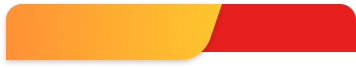
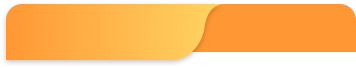
update

diff --git a/src/pages/tabbar/index.vue b/src/pages/tabbar/index.vue
@@ -42,26 +42,26 @@
 				<view class="lgImg flex col_center" @click="goArtcle(3)">
 					<view class="between">
 						<view>
-							<view class="name">Company</view>
-							<view class="label mt10">Best Global Marketing Agency</view>
+							<view class="name">{{t('x.i_d1')}}</view>
+							<view class="label mt10">{{t('x.i_d2')}}</view>
 						</view>
 
 						<view>
 							<image src="/static/themeNum1/icon/i_r.png" mode="widthFix"
-								style="width: 60rpx;height: 40rpx;"></image>
+								style="width: 60rpx;"></image>
 						</view>
 					</view>
 				</view>
 				<view class="lgImg flex col_center" @click="changePage(1,'../mine/notice')">
 					<view class="between">
 						<view>
-							<view class="name">Public</view>
-							<view class="label mt10">XXXXX</view>
+							<view class="name">{{t('x.i_d3')}}</view>
+							<view class="label mt10">{{t('x.i_d2')}}</view>
 						</view>
 
 						<view>
 							<image src="/static/themeNum1/icon/i_r.png" mode="widthFix"
-								style="width: 60rpx;height: 40rpx;"></image>
+								style="width: 60rpx;"></image>
 						</view>
 					</view>
 				</view>
@@ -109,7 +109,7 @@
 								<view class="mt10 f28 text_bold">{{ item.bonus + ' ' + currency }}</view>
 							</view>
 							<view class="descItem text_center">
-								<view> {{ $t('x.a5') + ' ' + item.dayProfit + currency }}
+								<view> {{ $t('x.a5') + ' ' + item.dayProfit + currency }}.
 									{{ $t('x.a6') + ' ' + item.show_day + ' ' + $t('x.a7') }}
 								</view>
 							</view>
@@ -546,7 +546,7 @@
 		border-bottom: 1px dashed #ccc;
 
 		.value {
-			color: #E7201F;
+			color: #FF7C35;
 			font-size: 32rpx;
 			font-weight: bold;
 		}

diff --git a/src/components/loading/loading.vue b/src/components/loading/loading.vue
@@ -201,7 +201,7 @@
 
 	@keyframes fadeG {
 		0% {
-			background-color: #E6201F;
+			background-color: #FFE030;
 		}
 
 		100% {
@@ -211,7 +211,7 @@
 
 	@-o-keyframes fadeG {
 		0% {
-			background-color: #E6201F;
+			background-color: #FFE030;
 		}
 
 		100% {
@@ -221,7 +221,7 @@
 
 	@-ms-keyframes fadeG {
 		0% {
-			background-color: #E6201F;
+			background-color: #FFE030;
 		}
 
 		100% {
@@ -231,7 +231,7 @@
 
 	@-webkit-keyframes fadeG {
 		0% {
-			background-color: #E6201F;
+			background-color: #FFE030;
 		}
 
 		100% {
@@ -241,7 +241,7 @@
 
 	@-moz-keyframes fadeG {
 		0% {
-			background-color: #E6201F;
+			background-color: #FFE030;
 		}
 
 		100% {

diff --git a/src/pages/task/fundDetail.vue b/src/pages/task/fundDetail.vue
@@ -86,6 +86,7 @@
 		
 		<view style="height: 100rpx;"></view>
 		</view>
+		<Loading ref="showLoading"></Loading>
 	</view>
 </template>
 
@@ -104,7 +105,7 @@
 		onLoad
 	} from "@dcloudio/uni-app";
 	const store = userStore();
-
+	const showLoading = ref("")
 	import {
 		useI18n
 	} from "vue-i18n";
@@ -141,6 +142,7 @@
 			Toast.text(t('x.b14'))
 			return 
 		}
+		showLoading.value.loading = true
 		const data = {
 			id:proId.value,
 			amount: inpVal.value
@@ -159,6 +161,8 @@
 			})
 		}).catch(err => {
 			Toast.text(err.message)
+		}).finally(()=>{
+			showLoading.value.loading = false
 		})
 	}
 	// 终于可以用了

diff --git a/src/pages/mine/notice.vue b/src/pages/mine/notice.vue
@@ -18,11 +18,11 @@
 					<view class="">
 						<view>
 							<nut-badge dot top="4" right="4" v-if="item.status ==0">
-								<image :src="store.$state.imgObj.noticeP" mode="widthFix"
+								<image src="/static/notice.png" mode="widthFix"
 									style="width: 78rpx;height: 78rpx;"></image>
 							</nut-badge>
 
-							<image :src="store.$state.imgObj.noticeP" v-else mode="widthFix"
+							<image src="/static/notice.png" v-else mode="widthFix"
 								style="width: 78rpx;height: 78rpx;"></image>
 						</view>
 					</view>

diff --git a/src/pages/tabbar/task.vue b/src/pages/tabbar/task.vue
@@ -287,7 +287,7 @@ const methods = {
 			}
 
 			.mainTextColor {
-				color: #E7201F;
+				color: #FF7C35;
 				font-weight: bold;
 				font-size: 34rpx;
 			}
@@ -372,7 +372,7 @@ const methods = {
 			}
 
 			.mainTextColor {
-				color: #E7201F;
+				color: #FF7C35;
 			}
 
 			.tag1 {
@@ -384,8 +384,8 @@ const methods = {
 			}
 
 			.tag2 {
-				color: #E7201F;
-				border: 1px solid #E7201F;
+				color: #FF7C35;
+				border: 1px solid #FF7C35;
 				border-radius: 4px;
 				padding: 3rpx 5rpx;
 				font-size: 24rpx;

diff --git a/src/pages/tabbar/level.vue b/src/pages/tabbar/level.vue
@@ -37,7 +37,7 @@
 							<view class="mt10 f28 text_bold">{{ item.bonus + ' ' + currency }}</view>
 						</view>
 						<view class="descItem text_center">
-							<view> {{ $t('x.a5') + ' ' + item.dayProfit + currency }}
+							<view> {{ $t('x.a5') + ' ' + item.dayProfit + currency }}.
 								{{ $t('x.a6') + ' ' + item.show_day + ' ' + $t('x.a7') }}
 							</view>
 						</view>

diff --git a/color/themeNum1.js b/color/themeNum1.js
@@ -4,7 +4,7 @@ const themeNum1 = {
 	secondColor: "#000",
 	thirdColor:"#4B2300",
 	imgObj: {
-		kefuIcon:"/static/service/kefu1.png",
+		kefuIcon:"/static/service/kefu.png",
 		loginBg: {
 			// 'background-image':  " url('/static/themeNum1/index/topBg.png?v1') ",
 			'background-size':' 100% auto',

diff --git a/lang/en.js b/lang/en.js
@@ -1,5 +1,8 @@
 export default {
 	x: {
+		i_d1:"Company",
+		i_d2:"Best Global Marketing Agency",
+		i_d3:"Platform Notification",
 		b1:"Fund",
 		b2:"Available Balance",
 		b3:"Fund Balance",

diff --git a/src/pages/mine/accountDetails.vue b/src/pages/mine/accountDetails.vue
@@ -228,7 +228,7 @@
 	}
 
 	.sea {
-		background: linear-gradient(270deg, #B20100 0%, #E7201F 100%);
+		background: linear-gradient(270deg, #B20100 0%, #FF7C35 100%);
 
 	}
 

diff --git a/src/pages/tabbar/team.vue b/src/pages/tabbar/team.vue
@@ -348,7 +348,7 @@
 	}
 
 	.sea {
-		background: linear-gradient(270deg, #B20100 0%, #E7201F 100%);
+		background: linear-gradient(270deg, #B20100 0%, #FF7C35 100%);
 
 	}
 

diff --git a/src/pages/task/taskList.vue b/src/pages/task/taskList.vue
@@ -189,7 +189,7 @@
 			}
 
 			.mainTextColor {
-				color: #E7201F;
+				color: #FF7C35;
 			}
 
 			.title {
